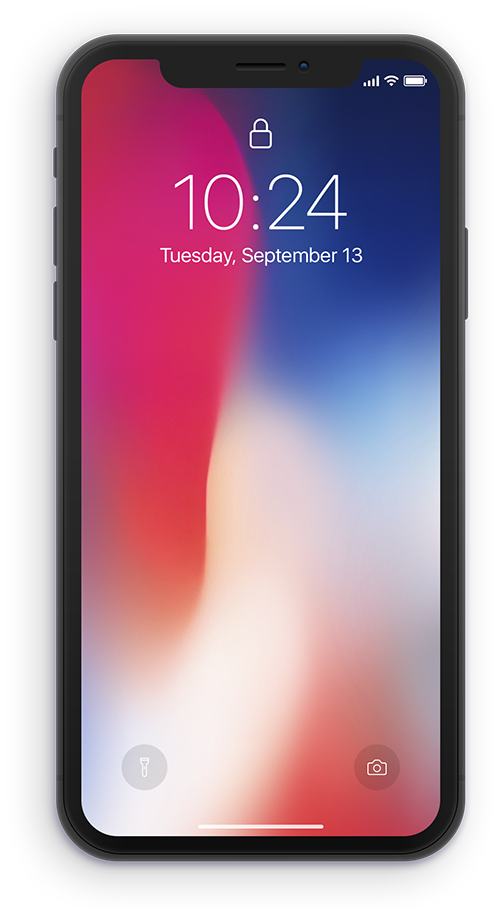
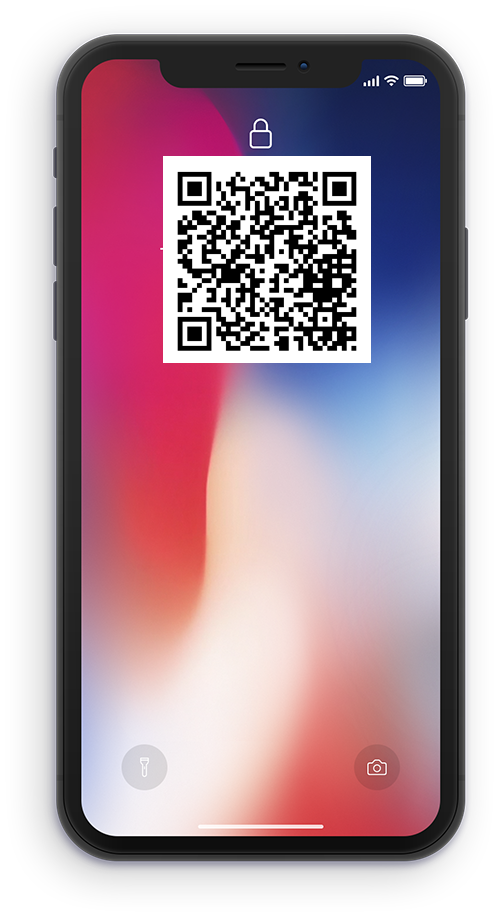
docs

Changed region(s): [[0.3, 0.1525, 0.75, 0.3965]]

diff --git a/index.html b/index.html
@@ -60,8 +60,9 @@ URI     : https://colorlib.com
 
     <header class="bg-gradient" id="home">
         <div class="container mt-5">
-            <h1>Mobile App Landing Page Template</h1>
-            <p class="tagline">The one and only solution for any kind of mobila app landing needs. Just change the screenshots and texts and you are good to go. </p>
+            <h1>1曲めどうする？！ 山田に任せろ！</h1>
+            <p class="tagline">会社のメンバーでの初めてのカラオケ、合コンの二次会、接待カラオケの1曲目......</p>
+            <p class="tagline">このメンツでは何を歌ったらシラけないだろう......場の空気を気にするキョロ充なそんなあなたに山田が写真からいい感じの曲を選曲するよ！</p>
         </div>
         <div class="img-holder mt-3"><img src="images/iphonex.png" alt="phone" class="img-fluid"></div>
     </header>
